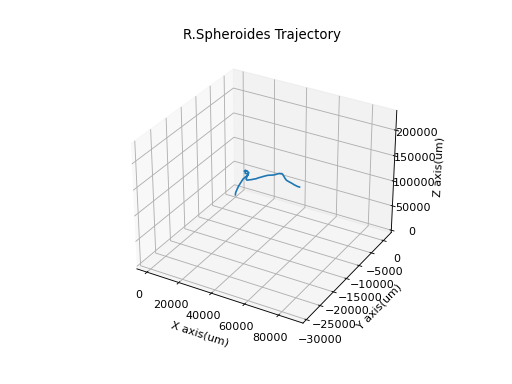
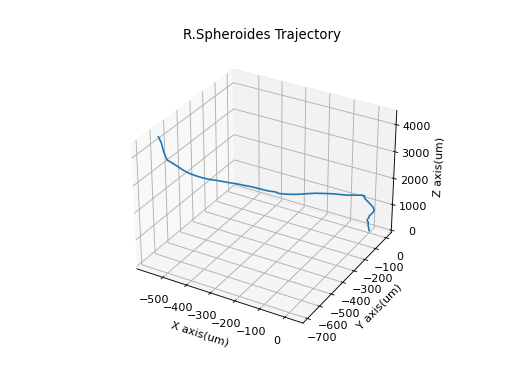
Pandas update to original file + read columns in "Image"

Changed region(s): [[0.25, 0.1875, 0.8438, 0.9062]]

diff --git a/R.sphaeroides3.py b/R.sphaeroides3.py
@@ -5,6 +5,7 @@ import matplotlib.pyplot as plt
 from mpl_toolkits import mplot3d
 import math
 from numpy import savetxt
+import pandas as pd
 
 Particles = 5
 
@@ -19,7 +20,7 @@ for l in range(Particles):
  run_speed = 20.0
  #Corresponding frequency-needs to be 100Hz
  freq = 100.0
- Correction = np.sqrt(((run_speed/freq)*(run_speed/freq))/3)
+ Correction = run_speed/freq
  #Total steps
  steps = time_tot*freq
  #mean stop duration in seconds and corresponding variables
@@ -174,9 +175,9 @@ for l in range(Particles):
         ypos_arr.append(y_pos)
         zpos_arr.append(z_pos)
         #Add  vector to each position
-        x_pos = x_pos + swim[0]/Correction
-        y_pos = y_pos + swim[1]/Correction
-        z_pos = z_pos + swim[2]/Correction
+        x_pos = x_pos + swim[0]*Correction
+        y_pos = y_pos + swim[1]*Correction
+        z_pos = z_pos + swim[2]*Correction
         #Reset vector to an old vector
         vectors.append(swim)
         #Apply the tumble function to tumble 60* with a random rotation about the z axis
@@ -194,6 +195,7 @@ for l in range(Particles):
  ax.set_zlabel('Z axis(um)')
  ax.set_title("R.Spheroides Trajectory")
  plt.savefig("R.Sphaeroides_trajectory.png",dpi=80)
+
  #Combine the arrays into a single array, transpose and save it as a .csv file.
  times = 0.00
  for i in range(len(xpos_arr)):
@@ -201,20 +203,19 @@ for l in range(Particles):
      Time.append(times)
  pos_arr = np.array([Time,xpos_arr, ypos_arr, zpos_arr])
  pos_arr = pos_arr.T
-
-
+ df = pd.DataFrame(pos_arr, columns = ["Time(S)", "X", "Y", "Z"])
  path = "/Users/alistair/Documents/Project/Scripts/Trajectories/trajectory_" + str(l) + ".csv"
- H = open(path, "w")
- np.savetxt(H, pos_arr)
+ df.to_csv(path, sep=""\t", delimeter = ",\n")
 
+ print("Run", str(l), "complete")
 
- Mean_S_Ang_Disp=MAD(angles)
- Mean_Ang_Disp=np.sqrt(Mean_S_Ang_Disp)
- print("MAD=", Mean_Ang_Disp)
+ #Mean_S_Ang_Disp=MAD(angles)
+ #Mean_Ang_Disp=np.sqrt(Mean_S_Ang_Disp)
+ #print("MAD=", Mean_Ang_Disp)
 
- v_avrg = (run_speed*mean_run)/(mean_run+mean_stop/run_speed)
- D_ld = (v_avrg*v_avrg*(mean_run+(mean_stop/run_speed)))/(3*(1-np.cos(Mean_Ang_Disp)))
- print("D_ld=", D_ld)
+ #v_avrg = (run_speed*mean_run)/(mean_run+mean_stop/run_speed)
+ #D_ld = (v_avrg*v_avrg*(mean_run+(mean_stop/run_speed)))/(3*(1-np.cos(Mean_Ang_Disp)))
+ #print("D_ld=", D_ld)
 
  MAD_results.clear()
  MSD_results.clear()

diff --git a/Image.py b/Image.py
@@ -1,20 +1,29 @@
 from PIL import Image
 import numpy as np
+import pandas as pd
 
-#Radius in pixels
-ppm = 0.711
+open_path = "/Users/alistair/Documents/Project/Scripts/Trajectories/trajectory_0.csv"
+df = pd.read_csv(open_path, usecols = ["X", "Y", "Z"], sep = "\t")
+x_col = df["X"]
+y_col = df["Y"]
 
-x_low = 512 -
-x_high = 512 +
+x_init = 512
+y_init = 512
 
-y_low = 512 -
-y_high = 512 +
+x_lower = x_init - 10
+x_upper = x_init + 10
 
-#z_low
-#z_high
+y_lower = y_init - 10
+y_upper = y_init + 10
+for i in range (5):
+    w, h = 1024, 1024
+    data = np.zeros((h, w, 3), dtype=np.uint8)
+    data[x_lower:x_upper, y_lower:y_upper] = [0, 0, 255] # blue patch
+    img = Image.fromarray(data, 'RGB')
+    path = "/Users/alistair/Documents/Project/Scripts/Frames/Frame_" + str(i) + ".png"
+    img.save(path)
 
-w, h = 1024.0, 1024.0
-data = np.zeros((h, w, 3), dtype=np.uint8)
-data[particle_lower:particle_upper, particle_lower:particle_upper] = [0, 0, 255] # blue patch
-img = Image.fromarray(data, 'RGB')
-img.save('frame.png')
+    x_upper += 5
+    x_lower += 5
+    y_upper += 5
+    y_lower += 5
